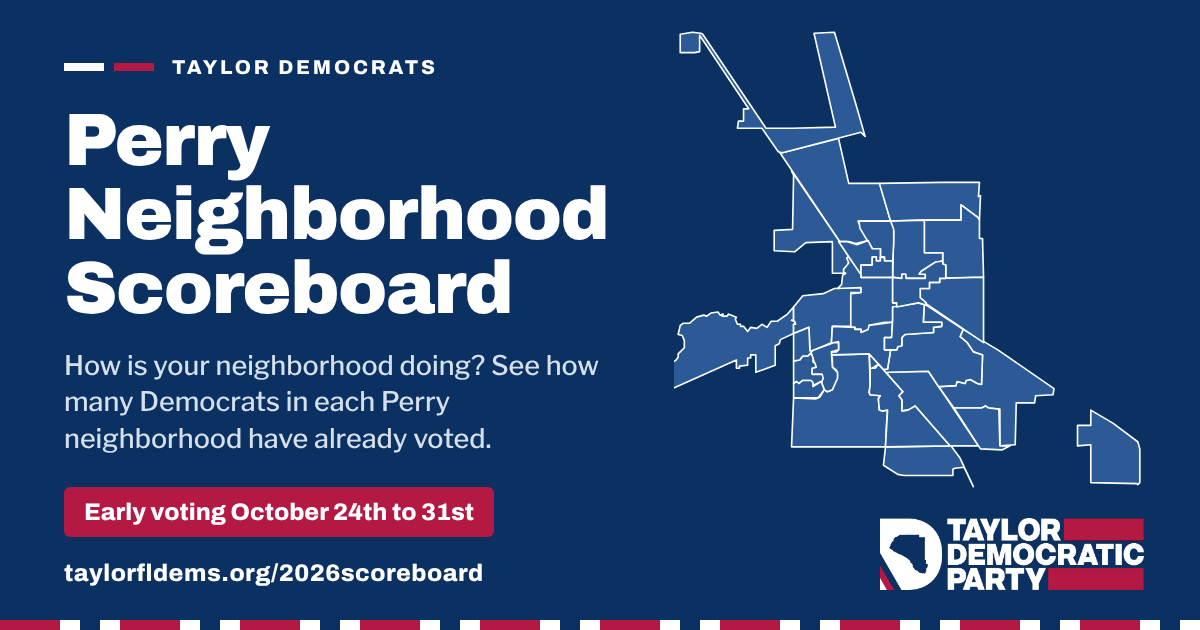
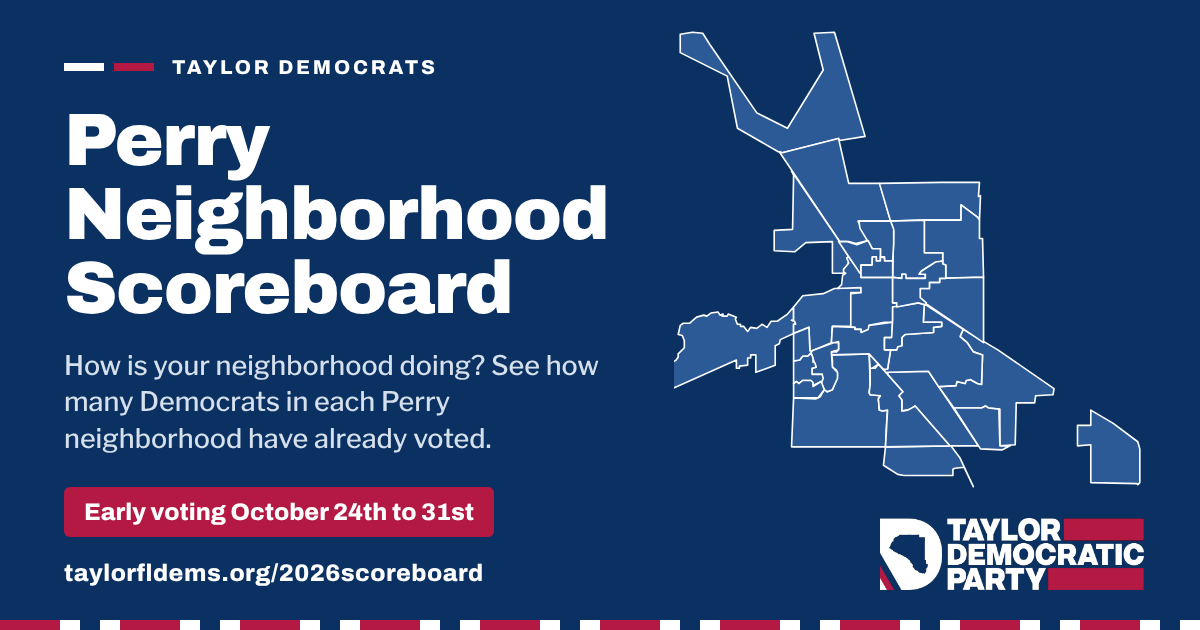
Neighborhood preview: North Perry filled in, new link-preview image
Claude-Session: https://claude.ai/code/session_01R7nS3J4W165aVdm51x17WX

Changed region(s): [[0.555, 0.0603, 0.74, 0.2413]]

diff --git a/neighborhoods/preview/block.html b/neighborhoods/preview/block.html
@@ -64,10 +64,10 @@
           <rect id="tdnb-ground" x="0" y="-100" width="720" height="700" fill="#D9D3C8"></rect>
           <g stroke="#FFFFFF" stroke-width="2" stroke-linejoin="round">
             <path class="area" data-i="0" d="M210 349l0 -13l-5 0l0 3l-3 0l0 7l-8 1l0 2l-3 0l0 -8l-157 70l-12 13l-5 -6l-15 7l-13 2l-1 -3l8 -6l-1 -12l18 -3l2 -3l11 -3l2 -3l-2 -5l2 -5l6 0l4 -5l15 -1l10 -4l3 1l9 -7l25 -2l12 -13l0 -3l7 -3l0 -2l8 -1l5 -3l2 -3l0 -3l6 -6l0 -7l-2 -5l-4 -1l2 -9l3 -2l6 0l7 -6l7 -2l3 1l4 -3l7 -1l2 3l3 -1l-1 2l5 0l1 -2l8 3l-1 2l2 5l3 0l0 2l3 0l4 5l3 -4l6 1l5 -4l5 3l4 -6l6 0l10 -7l6 -7l0 13l-2 0l3 1l1 3l-2 0l0 9l-13 6l-1 4l-4 2l0 19l-19 7l0 -4z" vector-effect="non-scaling-stroke"></path>
+            <path class="area" data-i="13" d="M291 124l-55 14l-4 -1l-40 -23l-10 -51l-46 -23l0 -18l12 -2l10 1l7 11l46 67l30 15l35 -57l-9 -36l20 -1l30 102l-25 4l-1 -2z" vector-effect="non-scaling-stroke"></path>
             <path class="area" data-i="21" d="M285 341l-1 -5l37 -1l1 30l-1 8l1 2l10 1l-2 3l1 11l8 0l-1 14l-1 22l-92 0l2 -48l22 1l4 -2l4 -7l3 2l5 -2l5 -14l-1 -5l-4 -3l0 -7z" vector-effect="non-scaling-stroke"></path>
             <path class="area" data-i="16" d="M308 227l12 -3l-10 -19l32 0l-10 -35l-1 -2l-30 0l-10 -44l-55 14l-3 -1l59 88l9 0l7 2z" vector-effect="non-scaling-stroke"></path>
             <path class="area" data-i="20" d="M350 376l4 -4l-15 -17l0 -2l40 -1l49 73l-27 0l9 12l13 28l-9 -19l-9 1l-2 1l0 6l-48 0l-6 -1l-14 -9l2 -18l63 -1l-34 -39l-4 3l-9 2l0 -11l-3 -4z" vector-effect="non-scaling-stroke"></path>
-            <path class="area" data-i="13" d="M309 94l8 28l-4 -4l-77 20l-4 -1l-16 -23l-24 0l1 -7l5 0l0 -12l5 0l-48 -72l0 16l-5 1l-14 0l0 -18l12 -2l8 1l2 1l62 92l26 0l42 -1l-21 -92l20 -1l22 74z" vector-effect="non-scaling-stroke"></path>
             <path class="area" data-i="9" d="M474 383l9 0l1 -7l17 -1l1 -6l-55 -38l-34 -20l-3 7l7 6l6 9l9 3l-1 29l-4 -1l-7 -4l-4 1l-1 3l-8 -2l-1 4l-17 1l15 21l27 0l4 -2l2 2l12 1l0 36l15 -1l1 -41l9 0z" vector-effect="non-scaling-stroke"></path>
             <path class="area" data-i="18" d="M339 350l3 -19l6 0l1 -3l4 -1l0 -8l3 -3l28 -2l0 -5l8 -1l0 -4l-18 0l1 -18l38 25l-3 7l7 6l6 9l9 3l-1 29l-4 -1l-7 -4l-4 1l-1 3l-8 -2l-1 4l-17 1l-10 -15l-40 1l0 2l-4 -5l4 0z" vector-effect="non-scaling-stroke"></path>
             <path class="area" data-i="10" d="M373 204l38 0l0 -15l16 12l2 3l1 -24l-2 1l1 -14l-37 0l-61 1l11 37l31 -1z" vector-effect="non-scaling-stroke"></path>
@@ -632,7 +632,7 @@ function start(ND) {
     areas.forEach((a) => { const v = ND.areas && ND.areas[a[0]]; a[2] = typeof v === "number" ? v : 0; });
     const TOP = Math.max(40, ...areas.map((a) => a[2]));
   const BOX = [[130,289.0,249.0,427.0],[247.0,334.0,276.0,366.0],[247.0,361.0,277.0,378.0],[344.0,244.0,396.0,289.0],[313.0,240.0,344.0,260.0],[321.0,336.0,400.0,426.0],[284.0,304.0,344.0,350.0],[525.0,390.0,586.0,463.0],[228.0,156.0,301.0,256.0],[389.0,311.0,502.0,425.0],[331.0,167.0,430.0,205.0],[336.0,285.0,392.0,331.0],[245.0,270.0,313.0,333.0],[136.0,20.0,317.0,138.0],[342.0,204.0,393.0,261.0],[375.0,189.0,433.0,261.0],[233.0,124.0,342.0,227.0],[291.0,224.0,332.0,256.0],[335.0,286.0,432.0,367.0],[311.0,205.0,345.0,244.0],[335.0,352.0,428.0,465.0],[245.0,335.0,339.0,426.0],[247.0,309.0,265.0,342.0],[404.0,386.0,459.0,429.0],[371.0,260.0,433.0,324.0],[264.0,324.0,291.0,372.0],[290.0,240.0,348.0,314.0]];
-  const D = ["M210 349l0 -13l-5 0l0 3l-3 0l0 7l-8 1l0 2l-3 0l0 -8l-157 70l-12 13l-5 -6l-15 7l-13 2l-1 -3l8 -6l-1 -12l18 -3l2 -3l11 -3l2 -3l-2 -5l2 -5l6 0l4 -5l15 -1l10 -4l3 1l9 -7l25 -2l12 -13l0 -3l7 -3l0 -2l8 -1l5 -3l2 -3l0 -3l6 -6l0 -7l-2 -5l-4 -1l2 -9l3 -2l6 0l7 -6l7 -2l3 1l4 -3l7 -1l2 3l3 -1l-1 2l5 0l1 -2l8 3l-1 2l2 5l3 0l0 2l3 0l4 5l3 -4l6 1l5 -4l5 3l4 -6l6 0l10 -7l6 -7l0 13l-2 0l3 1l1 3l-2 0l0 9l-13 6l-1 4l-4 2l0 19l-19 7l0 -4z","M266 364l-2 -3l-8 0l-4 3l-2 -2l-3 2l0 -22l6 -1l3 -4l5 0l3 -3l2 5l0 4l2 1l1 4l-4 1l0 6l10 0l1 4l-2 5l0 -2l-8 4l0 -2z","M274 362l3 8l-6 8l-24 0l0 -14l3 -2l2 2l4 -3l8 0l2 2l0 4l8 -5z","M393 247l3 1l0 13l-6 0l0 4l-10 0l0 6l-9 0l0 9l6 5l-1 2l-7 -2l-21 4l0 -4l-4 0l0 -12l0 -13l9 1l0 -4l4 0l0 4l19 0l0 -4l-6 0l2 -3l14 -9l7 -1l0 3z","M313 256l0 -8l11 0l0 -8l4 0l0 4l4 0l0 -4l4 1l0 3l8 0l0 16l-31 0l0 -4z","M334 391l-3 -1l-1 -11l2 -3l-10 -1l-1 -2l1 -8l0 -16l5 0l3 -4l-8 -9l32 36l-4 4l3 4l0 11l6 -1l7 -4l34 39l-63 1l2 -36l-5 1z","M324 349l-2 0l-1 -14l-37 1l0 -3l5 0l2 -2l0 -8l-7 2l1 -17l22 1l0 2l6 0l0 3l7 -3l1 -4l23 -3l-1 15l-7 0l0 12l6 0l-3 19l-4 0l-13 -14l8 9l-6 4z","M525 417l0 -12l13 0l0 -15l22 13l24 18l2 7l0 33l-2 2l-1 -1l-45 -1l0 -37l-13 1l0 -8z","M228 214l18 -1l1 -53l-2 -4l47 69l9 15l-2 1l2 3l-1 5l-4 3l0 4l-11 0l0 -31l-26 1l-11 9l-20 -1l0 -20z","M474 383l9 0l1 -7l17 -1l1 -6l-55 -38l-34 -20l-3 7l7 6l6 9l9 3l-1 29l-4 -1l-7 -4l-4 1l-1 3l-8 -2l-1 4l-17 1l15 21l27 0l4 -2l2 2l12 1l0 36l15 -1l1 -41l9 0z","M373 204l38 0l0 -15l16 12l2 3l1 -24l-2 1l1 -14l-37 0l-61 1l11 37l31 -1z","M356 316l28 -2l0 -5l8 -1l0 -4l-18 0l1 -18l-6 -1l-25 4l0 12l-1 18l-7 0l0 12l12 0l1 -3l4 -1l0 -8l3 -3z","M245 302l2 0l0 -13l9 -11l20 -2l11 -5l26 -1l0 5l-10 0l0 33l-4 0l-14 0l-1 16l-21 9l-1 -24l-15 6l0 -9l2 0l-1 -3l-3 -1z","M309 94l8 28l-4 -4l-77 20l-4 -1l-16 -23l-24 0l1 -7l5 0l0 -12l5 0l-48 -72l0 16l-5 1l-14 0l0 -18l12 -2l8 1l2 1l62 92l26 0l42 -1l-21 -92l20 -1l22 74z","M356 257l1 4l19 0l0 -4l-6 0l2 -3l13 -8l8 -2l0 -8l-18 0l0 -12l0 -20l-33 1l3 10l-1 45l9 1l0 -4l3 0z","M393 245l0 -9l-18 0l0 -32l36 0l0 -2l0 -13l16 12l2 3l0 18l3 0l1 38l-37 1l0 -13l-3 -1l0 -2z","M308 227l12 -3l-10 -19l32 0l-10 -35l-1 -2l-30 0l-10 -44l-55 14l-3 -1l59 88l9 0l7 2z","M324 241l4 -1l0 4l4 0l0 -12l-8 0l-4 -8l-11 4l-10 -3l-8 0l21 31l1 0l0 -8l11 0l0 -7z","M339 350l3 -19l6 0l1 -3l4 -1l0 -8l3 -3l28 -2l0 -5l8 -1l0 -4l-18 0l1 -18l38 25l-3 7l7 6l6 9l9 3l-1 29l-4 -1l-7 -4l-4 1l-1 3l-8 -2l-1 4l-17 1l-10 -15l-40 1l0 2l-4 -5l4 0z","M311 205l31 0l3 8l0 14l-1 17l-8 0l0 -4l-4 0l0 -8l-8 0l-12 -20l-1 -7z","M350 376l4 -4l-15 -17l0 -2l40 -1l49 73l-27 0l9 12l13 28l-9 -19l-9 1l-2 1l0 6l-48 0l-6 -1l-14 -9l2 -18l63 -1l-34 -39l-4 3l-9 2l0 -11l-3 -4z","M285 341l-1 -5l37 -1l1 30l-1 8l1 2l10 1l-2 3l1 11l8 0l-1 14l-1 22l-92 0l2 -48l22 1l4 -2l4 -7l3 2l5 -2l5 -14l-1 -5l-4 -3l0 -7z","M264 334l-3 3l-5 0l-3 4l-6 1l0 -27l10 -4l5 -2l1 23l2 0l-1 2z","M404 388l27 0l4 -2l3 2l10 1l1 36l10 0l-8 4l-21 -1l-26 -40z","M423 260l10 0l0 64l-56 -38l-6 -6l0 -9l9 0l0 -6l10 0l0 -4l33 -1z","M275 359l0 -4l-10 0l0 -6l4 -1l-5 -14l1 -2l21 -8l5 0l0 7l-7 2l1 15l5 5l0 6l-5 11l-5 2l-3 -2l-3 -7l1 -4z","M296 255l0 -3l5 -6l-2 -5l2 -1l12 16l0 4l31 0l0 25l4 0l0 4l-4 0l0 15l-8 0l-15 3l0 4l-8 3l0 -3l-6 0l0 -2l-4 0l0 -33l10 -1l0 -5l-23 1l4 -4l1 -9l3 -2l-2 -1z"];
+  const D = ["M210 349l0 -13l-5 0l0 3l-3 0l0 7l-8 1l0 2l-3 0l0 -8l-157 70l-12 13l-5 -6l-15 7l-13 2l-1 -3l8 -6l-1 -12l18 -3l2 -3l11 -3l2 -3l-2 -5l2 -5l6 0l4 -5l15 -1l10 -4l3 1l9 -7l25 -2l12 -13l0 -3l7 -3l0 -2l8 -1l5 -3l2 -3l0 -3l6 -6l0 -7l-2 -5l-4 -1l2 -9l3 -2l6 0l7 -6l7 -2l3 1l4 -3l7 -1l2 3l3 -1l-1 2l5 0l1 -2l8 3l-1 2l2 5l3 0l0 2l3 0l4 5l3 -4l6 1l5 -4l5 3l4 -6l6 0l10 -7l6 -7l0 13l-2 0l3 1l1 3l-2 0l0 9l-13 6l-1 4l-4 2l0 19l-19 7l0 -4z","M266 364l-2 -3l-8 0l-4 3l-2 -2l-3 2l0 -22l6 -1l3 -4l5 0l3 -3l2 5l0 4l2 1l1 4l-4 1l0 6l10 0l1 4l-2 5l0 -2l-8 4l0 -2z","M274 362l3 8l-6 8l-24 0l0 -14l3 -2l2 2l4 -3l8 0l2 2l0 4l8 -5z","M393 247l3 1l0 13l-6 0l0 4l-10 0l0 6l-9 0l0 9l6 5l-1 2l-7 -2l-21 4l0 -4l-4 0l0 -12l0 -13l9 1l0 -4l4 0l0 4l19 0l0 -4l-6 0l2 -3l14 -9l7 -1l0 3z","M313 256l0 -8l11 0l0 -8l4 0l0 4l4 0l0 -4l4 1l0 3l8 0l0 16l-31 0l0 -4z","M334 391l-3 -1l-1 -11l2 -3l-10 -1l-1 -2l1 -8l0 -16l5 0l3 -4l-8 -9l32 36l-4 4l3 4l0 11l6 -1l7 -4l34 39l-63 1l2 -36l-5 1z","M324 349l-2 0l-1 -14l-37 1l0 -3l5 0l2 -2l0 -8l-7 2l1 -17l22 1l0 2l6 0l0 3l7 -3l1 -4l23 -3l-1 15l-7 0l0 12l6 0l-3 19l-4 0l-13 -14l8 9l-6 4z","M525 417l0 -12l13 0l0 -15l22 13l24 18l2 7l0 33l-2 2l-1 -1l-45 -1l0 -37l-13 1l0 -8z","M228 214l18 -1l1 -53l-2 -4l47 69l9 15l-2 1l2 3l-1 5l-4 3l0 4l-11 0l0 -31l-26 1l-11 9l-20 -1l0 -20z","M474 383l9 0l1 -7l17 -1l1 -6l-55 -38l-34 -20l-3 7l7 6l6 9l9 3l-1 29l-4 -1l-7 -4l-4 1l-1 3l-8 -2l-1 4l-17 1l15 21l27 0l4 -2l2 2l12 1l0 36l15 -1l1 -41l9 0z","M373 204l38 0l0 -15l16 12l2 3l1 -24l-2 1l1 -14l-37 0l-61 1l11 37l31 -1z","M356 316l28 -2l0 -5l8 -1l0 -4l-18 0l1 -18l-6 -1l-25 4l0 12l-1 18l-7 0l0 12l12 0l1 -3l4 -1l0 -8l3 -3z","M245 302l2 0l0 -13l9 -11l20 -2l11 -5l26 -1l0 5l-10 0l0 33l-4 0l-14 0l-1 16l-21 9l-1 -24l-15 6l0 -9l2 0l-1 -3l-3 -1z","M291 124l-55 14l-4 -1l-40 -23l-10 -51l-46 -23l0 -18l12 -2l10 1l7 11l46 67l30 15l35 -57l-9 -36l20 -1l30 102l-25 4l-1 -2z","M356 257l1 4l19 0l0 -4l-6 0l2 -3l13 -8l8 -2l0 -8l-18 0l0 -12l0 -20l-33 1l3 10l-1 45l9 1l0 -4l3 0z","M393 245l0 -9l-18 0l0 -32l36 0l0 -2l0 -13l16 12l2 3l0 18l3 0l1 38l-37 1l0 -13l-3 -1l0 -2z","M308 227l12 -3l-10 -19l32 0l-10 -35l-1 -2l-30 0l-10 -44l-55 14l-3 -1l59 88l9 0l7 2z","M324 241l4 -1l0 4l4 0l0 -12l-8 0l-4 -8l-11 4l-10 -3l-8 0l21 31l1 0l0 -8l11 0l0 -7z","M339 350l3 -19l6 0l1 -3l4 -1l0 -8l3 -3l28 -2l0 -5l8 -1l0 -4l-18 0l1 -18l38 25l-3 7l7 6l6 9l9 3l-1 29l-4 -1l-7 -4l-4 1l-1 3l-8 -2l-1 4l-17 1l-10 -15l-40 1l0 2l-4 -5l4 0z","M311 205l31 0l3 8l0 14l-1 17l-8 0l0 -4l-4 0l0 -8l-8 0l-12 -20l-1 -7z","M350 376l4 -4l-15 -17l0 -2l40 -1l49 73l-27 0l9 12l13 28l-9 -19l-9 1l-2 1l0 6l-48 0l-6 -1l-14 -9l2 -18l63 -1l-34 -39l-4 3l-9 2l0 -11l-3 -4z","M285 341l-1 -5l37 -1l1 30l-1 8l1 2l10 1l-2 3l1 11l8 0l-1 14l-1 22l-92 0l2 -48l22 1l4 -2l4 -7l3 2l5 -2l5 -14l-1 -5l-4 -3l0 -7z","M264 334l-3 3l-5 0l-3 4l-6 1l0 -27l10 -4l5 -2l1 23l2 0l-1 2z","M404 388l27 0l4 -2l3 2l10 1l1 36l10 0l-8 4l-21 -1l-26 -40z","M423 260l10 0l0 64l-56 -38l-6 -6l0 -9l9 0l0 -6l10 0l0 -4l33 -1z","M275 359l0 -4l-10 0l0 -6l4 -1l-5 -14l1 -2l21 -8l5 0l0 7l-7 2l1 15l5 5l0 6l-5 11l-5 2l-3 -2l-3 -7l1 -4z","M296 255l0 -3l5 -6l-2 -5l2 -1l12 16l0 4l31 0l0 25l4 0l0 4l-4 0l0 15l-8 0l-15 3l0 4l-8 3l0 -3l-6 0l0 -2l-4 0l0 -33l10 -1l0 -5l-23 1l4 -4l1 -9l3 -2l-2 -1z"];
   const B = { x: 130, y: 10, w: 460, h: 470 };
   const pcts = (ps) => ps.length === 1 ? "Precinct " + ps[0] : "Precincts " + ps.slice(0, -1).join(", ") + " and " + ps[ps.length - 1];
   const ord = (n) => n + ((n % 100 >= 11 && n % 100 <= 13) ? "th" : ({ 1: "st", 2: "nd", 3: "rd" }[n % 10] || "th"));

diff --git a/neighborhoods/preview/live.html b/neighborhoods/preview/live.html
@@ -69,10 +69,10 @@
           <rect id="tdnb-ground" x="0" y="-100" width="720" height="700" fill="#D9D3C8"></rect>
           <g stroke="#FFFFFF" stroke-width="2" stroke-linejoin="round">
             <path class="area" data-i="0" d="M210 349l0 -13l-5 0l0 3l-3 0l0 7l-8 1l0 2l-3 0l0 -8l-157 70l-12 13l-5 -6l-15 7l-13 2l-1 -3l8 -6l-1 -12l18 -3l2 -3l11 -3l2 -3l-2 -5l2 -5l6 0l4 -5l15 -1l10 -4l3 1l9 -7l25 -2l12 -13l0 -3l7 -3l0 -2l8 -1l5 -3l2 -3l0 -3l6 -6l0 -7l-2 -5l-4 -1l2 -9l3 -2l6 0l7 -6l7 -2l3 1l4 -3l7 -1l2 3l3 -1l-1 2l5 0l1 -2l8 3l-1 2l2 5l3 0l0 2l3 0l4 5l3 -4l6 1l5 -4l5 3l4 -6l6 0l10 -7l6 -7l0 13l-2 0l3 1l1 3l-2 0l0 9l-13 6l-1 4l-4 2l0 19l-19 7l0 -4z" vector-effect="non-scaling-stroke"></path>
+            <path class="area" data-i="13" d="M291 124l-55 14l-4 -1l-40 -23l-10 -51l-46 -23l0 -18l12 -2l10 1l7 11l46 67l30 15l35 -57l-9 -36l20 -1l30 102l-25 4l-1 -2z" vector-effect="non-scaling-stroke"></path>
             <path class="area" data-i="21" d="M285 341l-1 -5l37 -1l1 30l-1 8l1 2l10 1l-2 3l1 11l8 0l-1 14l-1 22l-92 0l2 -48l22 1l4 -2l4 -7l3 2l5 -2l5 -14l-1 -5l-4 -3l0 -7z" vector-effect="non-scaling-stroke"></path>
             <path class="area" data-i="16" d="M308 227l12 -3l-10 -19l32 0l-10 -35l-1 -2l-30 0l-10 -44l-55 14l-3 -1l59 88l9 0l7 2z" vector-effect="non-scaling-stroke"></path>
             <path class="area" data-i="20" d="M350 376l4 -4l-15 -17l0 -2l40 -1l49 73l-27 0l9 12l13 28l-9 -19l-9 1l-2 1l0 6l-48 0l-6 -1l-14 -9l2 -18l63 -1l-34 -39l-4 3l-9 2l0 -11l-3 -4z" vector-effect="non-scaling-stroke"></path>
-            <path class="area" data-i="13" d="M309 94l8 28l-4 -4l-77 20l-4 -1l-16 -23l-24 0l1 -7l5 0l0 -12l5 0l-48 -72l0 16l-5 1l-14 0l0 -18l12 -2l8 1l2 1l62 92l26 0l42 -1l-21 -92l20 -1l22 74z" vector-effect="non-scaling-stroke"></path>
             <path class="area" data-i="9" d="M474 383l9 0l1 -7l17 -1l1 -6l-55 -38l-34 -20l-3 7l7 6l6 9l9 3l-1 29l-4 -1l-7 -4l-4 1l-1 3l-8 -2l-1 4l-17 1l15 21l27 0l4 -2l2 2l12 1l0 36l15 -1l1 -41l9 0z" vector-effect="non-scaling-stroke"></path>
             <path class="area" data-i="18" d="M339 350l3 -19l6 0l1 -3l4 -1l0 -8l3 -3l28 -2l0 -5l8 -1l0 -4l-18 0l1 -18l38 25l-3 7l7 6l6 9l9 3l-1 29l-4 -1l-7 -4l-4 1l-1 3l-8 -2l-1 4l-17 1l-10 -15l-40 1l0 2l-4 -5l4 0z" vector-effect="non-scaling-stroke"></path>
             <path class="area" data-i="10" d="M373 204l38 0l0 -15l16 12l2 3l1 -24l-2 1l1 -14l-37 0l-61 1l11 37l31 -1z" vector-effect="non-scaling-stroke"></path>
@@ -637,7 +637,7 @@ function start(ND) {
     areas.forEach((a) => { const v = ND.areas && ND.areas[a[0]]; a[2] = typeof v === "number" ? v : 0; });
     const TOP = Math.max(40, ...areas.map((a) => a[2]));
   const BOX = [[130,289.0,249.0,427.0],[247.0,334.0,276.0,366.0],[247.0,361.0,277.0,378.0],[344.0,244.0,396.0,289.0],[313.0,240.0,344.0,260.0],[321.0,336.0,400.0,426.0],[284.0,304.0,344.0,350.0],[525.0,390.0,586.0,463.0],[228.0,156.0,301.0,256.0],[389.0,311.0,502.0,425.0],[331.0,167.0,430.0,205.0],[336.0,285.0,392.0,331.0],[245.0,270.0,313.0,333.0],[136.0,20.0,317.0,138.0],[342.0,204.0,393.0,261.0],[375.0,189.0,433.0,261.0],[233.0,124.0,342.0,227.0],[291.0,224.0,332.0,256.0],[335.0,286.0,432.0,367.0],[311.0,205.0,345.0,244.0],[335.0,352.0,428.0,465.0],[245.0,335.0,339.0,426.0],[247.0,309.0,265.0,342.0],[404.0,386.0,459.0,429.0],[371.0,260.0,433.0,324.0],[264.0,324.0,291.0,372.0],[290.0,240.0,348.0,314.0]];
-  const D = ["M210 349l0 -13l-5 0l0 3l-3 0l0 7l-8 1l0 2l-3 0l0 -8l-157 70l-12 13l-5 -6l-15 7l-13 2l-1 -3l8 -6l-1 -12l18 -3l2 -3l11 -3l2 -3l-2 -5l2 -5l6 0l4 -5l15 -1l10 -4l3 1l9 -7l25 -2l12 -13l0 -3l7 -3l0 -2l8 -1l5 -3l2 -3l0 -3l6 -6l0 -7l-2 -5l-4 -1l2 -9l3 -2l6 0l7 -6l7 -2l3 1l4 -3l7 -1l2 3l3 -1l-1 2l5 0l1 -2l8 3l-1 2l2 5l3 0l0 2l3 0l4 5l3 -4l6 1l5 -4l5 3l4 -6l6 0l10 -7l6 -7l0 13l-2 0l3 1l1 3l-2 0l0 9l-13 6l-1 4l-4 2l0 19l-19 7l0 -4z","M266 364l-2 -3l-8 0l-4 3l-2 -2l-3 2l0 -22l6 -1l3 -4l5 0l3 -3l2 5l0 4l2 1l1 4l-4 1l0 6l10 0l1 4l-2 5l0 -2l-8 4l0 -2z","M274 362l3 8l-6 8l-24 0l0 -14l3 -2l2 2l4 -3l8 0l2 2l0 4l8 -5z","M393 247l3 1l0 13l-6 0l0 4l-10 0l0 6l-9 0l0 9l6 5l-1 2l-7 -2l-21 4l0 -4l-4 0l0 -12l0 -13l9 1l0 -4l4 0l0 4l19 0l0 -4l-6 0l2 -3l14 -9l7 -1l0 3z","M313 256l0 -8l11 0l0 -8l4 0l0 4l4 0l0 -4l4 1l0 3l8 0l0 16l-31 0l0 -4z","M334 391l-3 -1l-1 -11l2 -3l-10 -1l-1 -2l1 -8l0 -16l5 0l3 -4l-8 -9l32 36l-4 4l3 4l0 11l6 -1l7 -4l34 39l-63 1l2 -36l-5 1z","M324 349l-2 0l-1 -14l-37 1l0 -3l5 0l2 -2l0 -8l-7 2l1 -17l22 1l0 2l6 0l0 3l7 -3l1 -4l23 -3l-1 15l-7 0l0 12l6 0l-3 19l-4 0l-13 -14l8 9l-6 4z","M525 417l0 -12l13 0l0 -15l22 13l24 18l2 7l0 33l-2 2l-1 -1l-45 -1l0 -37l-13 1l0 -8z","M228 214l18 -1l1 -53l-2 -4l47 69l9 15l-2 1l2 3l-1 5l-4 3l0 4l-11 0l0 -31l-26 1l-11 9l-20 -1l0 -20z","M474 383l9 0l1 -7l17 -1l1 -6l-55 -38l-34 -20l-3 7l7 6l6 9l9 3l-1 29l-4 -1l-7 -4l-4 1l-1 3l-8 -2l-1 4l-17 1l15 21l27 0l4 -2l2 2l12 1l0 36l15 -1l1 -41l9 0z","M373 204l38 0l0 -15l16 12l2 3l1 -24l-2 1l1 -14l-37 0l-61 1l11 37l31 -1z","M356 316l28 -2l0 -5l8 -1l0 -4l-18 0l1 -18l-6 -1l-25 4l0 12l-1 18l-7 0l0 12l12 0l1 -3l4 -1l0 -8l3 -3z","M245 302l2 0l0 -13l9 -11l20 -2l11 -5l26 -1l0 5l-10 0l0 33l-4 0l-14 0l-1 16l-21 9l-1 -24l-15 6l0 -9l2 0l-1 -3l-3 -1z","M309 94l8 28l-4 -4l-77 20l-4 -1l-16 -23l-24 0l1 -7l5 0l0 -12l5 0l-48 -72l0 16l-5 1l-14 0l0 -18l12 -2l8 1l2 1l62 92l26 0l42 -1l-21 -92l20 -1l22 74z","M356 257l1 4l19 0l0 -4l-6 0l2 -3l13 -8l8 -2l0 -8l-18 0l0 -12l0 -20l-33 1l3 10l-1 45l9 1l0 -4l3 0z","M393 245l0 -9l-18 0l0 -32l36 0l0 -2l0 -13l16 12l2 3l0 18l3 0l1 38l-37 1l0 -13l-3 -1l0 -2z","M308 227l12 -3l-10 -19l32 0l-10 -35l-1 -2l-30 0l-10 -44l-55 14l-3 -1l59 88l9 0l7 2z","M324 241l4 -1l0 4l4 0l0 -12l-8 0l-4 -8l-11 4l-10 -3l-8 0l21 31l1 0l0 -8l11 0l0 -7z","M339 350l3 -19l6 0l1 -3l4 -1l0 -8l3 -3l28 -2l0 -5l8 -1l0 -4l-18 0l1 -18l38 25l-3 7l7 6l6 9l9 3l-1 29l-4 -1l-7 -4l-4 1l-1 3l-8 -2l-1 4l-17 1l-10 -15l-40 1l0 2l-4 -5l4 0z","M311 205l31 0l3 8l0 14l-1 17l-8 0l0 -4l-4 0l0 -8l-8 0l-12 -20l-1 -7z","M350 376l4 -4l-15 -17l0 -2l40 -1l49 73l-27 0l9 12l13 28l-9 -19l-9 1l-2 1l0 6l-48 0l-6 -1l-14 -9l2 -18l63 -1l-34 -39l-4 3l-9 2l0 -11l-3 -4z","M285 341l-1 -5l37 -1l1 30l-1 8l1 2l10 1l-2 3l1 11l8 0l-1 14l-1 22l-92 0l2 -48l22 1l4 -2l4 -7l3 2l5 -2l5 -14l-1 -5l-4 -3l0 -7z","M264 334l-3 3l-5 0l-3 4l-6 1l0 -27l10 -4l5 -2l1 23l2 0l-1 2z","M404 388l27 0l4 -2l3 2l10 1l1 36l10 0l-8 4l-21 -1l-26 -40z","M423 260l10 0l0 64l-56 -38l-6 -6l0 -9l9 0l0 -6l10 0l0 -4l33 -1z","M275 359l0 -4l-10 0l0 -6l4 -1l-5 -14l1 -2l21 -8l5 0l0 7l-7 2l1 15l5 5l0 6l-5 11l-5 2l-3 -2l-3 -7l1 -4z","M296 255l0 -3l5 -6l-2 -5l2 -1l12 16l0 4l31 0l0 25l4 0l0 4l-4 0l0 15l-8 0l-15 3l0 4l-8 3l0 -3l-6 0l0 -2l-4 0l0 -33l10 -1l0 -5l-23 1l4 -4l1 -9l3 -2l-2 -1z"];
+  const D = ["M210 349l0 -13l-5 0l0 3l-3 0l0 7l-8 1l0 2l-3 0l0 -8l-157 70l-12 13l-5 -6l-15 7l-13 2l-1 -3l8 -6l-1 -12l18 -3l2 -3l11 -3l2 -3l-2 -5l2 -5l6 0l4 -5l15 -1l10 -4l3 1l9 -7l25 -2l12 -13l0 -3l7 -3l0 -2l8 -1l5 -3l2 -3l0 -3l6 -6l0 -7l-2 -5l-4 -1l2 -9l3 -2l6 0l7 -6l7 -2l3 1l4 -3l7 -1l2 3l3 -1l-1 2l5 0l1 -2l8 3l-1 2l2 5l3 0l0 2l3 0l4 5l3 -4l6 1l5 -4l5 3l4 -6l6 0l10 -7l6 -7l0 13l-2 0l3 1l1 3l-2 0l0 9l-13 6l-1 4l-4 2l0 19l-19 7l0 -4z","M266 364l-2 -3l-8 0l-4 3l-2 -2l-3 2l0 -22l6 -1l3 -4l5 0l3 -3l2 5l0 4l2 1l1 4l-4 1l0 6l10 0l1 4l-2 5l0 -2l-8 4l0 -2z","M274 362l3 8l-6 8l-24 0l0 -14l3 -2l2 2l4 -3l8 0l2 2l0 4l8 -5z","M393 247l3 1l0 13l-6 0l0 4l-10 0l0 6l-9 0l0 9l6 5l-1 2l-7 -2l-21 4l0 -4l-4 0l0 -12l0 -13l9 1l0 -4l4 0l0 4l19 0l0 -4l-6 0l2 -3l14 -9l7 -1l0 3z","M313 256l0 -8l11 0l0 -8l4 0l0 4l4 0l0 -4l4 1l0 3l8 0l0 16l-31 0l0 -4z","M334 391l-3 -1l-1 -11l2 -3l-10 -1l-1 -2l1 -8l0 -16l5 0l3 -4l-8 -9l32 36l-4 4l3 4l0 11l6 -1l7 -4l34 39l-63 1l2 -36l-5 1z","M324 349l-2 0l-1 -14l-37 1l0 -3l5 0l2 -2l0 -8l-7 2l1 -17l22 1l0 2l6 0l0 3l7 -3l1 -4l23 -3l-1 15l-7 0l0 12l6 0l-3 19l-4 0l-13 -14l8 9l-6 4z","M525 417l0 -12l13 0l0 -15l22 13l24 18l2 7l0 33l-2 2l-1 -1l-45 -1l0 -37l-13 1l0 -8z","M228 214l18 -1l1 -53l-2 -4l47 69l9 15l-2 1l2 3l-1 5l-4 3l0 4l-11 0l0 -31l-26 1l-11 9l-20 -1l0 -20z","M474 383l9 0l1 -7l17 -1l1 -6l-55 -38l-34 -20l-3 7l7 6l6 9l9 3l-1 29l-4 -1l-7 -4l-4 1l-1 3l-8 -2l-1 4l-17 1l15 21l27 0l4 -2l2 2l12 1l0 36l15 -1l1 -41l9 0z","M373 204l38 0l0 -15l16 12l2 3l1 -24l-2 1l1 -14l-37 0l-61 1l11 37l31 -1z","M356 316l28 -2l0 -5l8 -1l0 -4l-18 0l1 -18l-6 -1l-25 4l0 12l-1 18l-7 0l0 12l12 0l1 -3l4 -1l0 -8l3 -3z","M245 302l2 0l0 -13l9 -11l20 -2l11 -5l26 -1l0 5l-10 0l0 33l-4 0l-14 0l-1 16l-21 9l-1 -24l-15 6l0 -9l2 0l-1 -3l-3 -1z","M291 124l-55 14l-4 -1l-40 -23l-10 -51l-46 -23l0 -18l12 -2l10 1l7 11l46 67l30 15l35 -57l-9 -36l20 -1l30 102l-25 4l-1 -2z","M356 257l1 4l19 0l0 -4l-6 0l2 -3l13 -8l8 -2l0 -8l-18 0l0 -12l0 -20l-33 1l3 10l-1 45l9 1l0 -4l3 0z","M393 245l0 -9l-18 0l0 -32l36 0l0 -2l0 -13l16 12l2 3l0 18l3 0l1 38l-37 1l0 -13l-3 -1l0 -2z","M308 227l12 -3l-10 -19l32 0l-10 -35l-1 -2l-30 0l-10 -44l-55 14l-3 -1l59 88l9 0l7 2z","M324 241l4 -1l0 4l4 0l0 -12l-8 0l-4 -8l-11 4l-10 -3l-8 0l21 31l1 0l0 -8l11 0l0 -7z","M339 350l3 -19l6 0l1 -3l4 -1l0 -8l3 -3l28 -2l0 -5l8 -1l0 -4l-18 0l1 -18l38 25l-3 7l7 6l6 9l9 3l-1 29l-4 -1l-7 -4l-4 1l-1 3l-8 -2l-1 4l-17 1l-10 -15l-40 1l0 2l-4 -5l4 0z","M311 205l31 0l3 8l0 14l-1 17l-8 0l0 -4l-4 0l0 -8l-8 0l-12 -20l-1 -7z","M350 376l4 -4l-15 -17l0 -2l40 -1l49 73l-27 0l9 12l13 28l-9 -19l-9 1l-2 1l0 6l-48 0l-6 -1l-14 -9l2 -18l63 -1l-34 -39l-4 3l-9 2l0 -11l-3 -4z","M285 341l-1 -5l37 -1l1 30l-1 8l1 2l10 1l-2 3l1 11l8 0l-1 14l-1 22l-92 0l2 -48l22 1l4 -2l4 -7l3 2l5 -2l5 -14l-1 -5l-4 -3l0 -7z","M264 334l-3 3l-5 0l-3 4l-6 1l0 -27l10 -4l5 -2l1 23l2 0l-1 2z","M404 388l27 0l4 -2l3 2l10 1l1 36l10 0l-8 4l-21 -1l-26 -40z","M423 260l10 0l0 64l-56 -38l-6 -6l0 -9l9 0l0 -6l10 0l0 -4l33 -1z","M275 359l0 -4l-10 0l0 -6l4 -1l-5 -14l1 -2l21 -8l5 0l0 7l-7 2l1 15l5 5l0 6l-5 11l-5 2l-3 -2l-3 -7l1 -4z","M296 255l0 -3l5 -6l-2 -5l2 -1l12 16l0 4l31 0l0 25l4 0l0 4l-4 0l0 15l-8 0l-15 3l0 4l-8 3l0 -3l-6 0l0 -2l-4 0l0 -33l10 -1l0 -5l-23 1l4 -4l1 -9l3 -2l-2 -1z"];
   const B = { x: 130, y: 10, w: 460, h: 470 };
   const pcts = (ps) => ps.length === 1 ? "Precinct " + ps[0] : "Precincts " + ps.slice(0, -1).join(", ") + " and " + ps[ps.length - 1];
   const ord = (n) => n + ((n % 100 >= 11 && n % 100 <= 13) ? "th" : ({ 1: "st", 2: "nd", 3: "rd" }[n % 10] || "th"));

diff --git a/neighborhoods/preview/index.html b/neighborhoods/preview/index.html
@@ -66,10 +66,10 @@ button:focus-visible{outline:3px solid #B31942;outline-offset:2px}
           <rect id="ground" x="0" y="-100" width="720" height="700" fill="#D9D3C8"></rect>
           <g stroke="#FFFFFF" stroke-width="2" stroke-linejoin="round">
             <path class="area" data-i="0" d="M210 349l0 -13l-5 0l0 3l-3 0l0 7l-8 1l0 2l-3 0l0 -8l-157 70l-12 13l-5 -6l-15 7l-13 2l-1 -3l8 -6l-1 -12l18 -3l2 -3l11 -3l2 -3l-2 -5l2 -5l6 0l4 -5l15 -1l10 -4l3 1l9 -7l25 -2l12 -13l0 -3l7 -3l0 -2l8 -1l5 -3l2 -3l0 -3l6 -6l0 -7l-2 -5l-4 -1l2 -9l3 -2l6 0l7 -6l7 -2l3 1l4 -3l7 -1l2 3l3 -1l-1 2l5 0l1 -2l8 3l-1 2l2 5l3 0l0 2l3 0l4 5l3 -4l6 1l5 -4l5 3l4 -6l6 0l10 -7l6 -7l0 13l-2 0l3 1l1 3l-2 0l0 9l-13 6l-1 4l-4 2l0 19l-19 7l0 -4z" vector-effect="non-scaling-stroke"></path>
+            <path class="area" data-i="13" d="M291 124l-55 14l-4 -1l-40 -23l-10 -51l-46 -23l0 -18l12 -2l10 1l7 11l46 67l30 15l35 -57l-9 -36l20 -1l30 102l-25 4l-1 -2z" vector-effect="non-scaling-stroke"></path>
             <path class="area" data-i="21" d="M285 341l-1 -5l37 -1l1 30l-1 8l1 2l10 1l-2 3l1 11l8 0l-1 14l-1 22l-92 0l2 -48l22 1l4 -2l4 -7l3 2l5 -2l5 -14l-1 -5l-4 -3l0 -7z" vector-effect="non-scaling-stroke"></path>
             <path class="area" data-i="16" d="M308 227l12 -3l-10 -19l32 0l-10 -35l-1 -2l-30 0l-10 -44l-55 14l-3 -1l59 88l9 0l7 2z" vector-effect="non-scaling-stroke"></path>
             <path class="area" data-i="20" d="M350 376l4 -4l-15 -17l0 -2l40 -1l49 73l-27 0l9 12l13 28l-9 -19l-9 1l-2 1l0 6l-48 0l-6 -1l-14 -9l2 -18l63 -1l-34 -39l-4 3l-9 2l0 -11l-3 -4z" vector-effect="non-scaling-stroke"></path>
-            <path class="area" data-i="13" d="M309 94l8 28l-4 -4l-77 20l-4 -1l-16 -23l-24 0l1 -7l5 0l0 -12l5 0l-48 -72l0 16l-5 1l-14 0l0 -18l12 -2l8 1l2 1l62 92l26 0l42 -1l-21 -92l20 -1l22 74z" vector-effect="non-scaling-stroke"></path>
             <path class="area" data-i="9" d="M474 383l9 0l1 -7l17 -1l1 -6l-55 -38l-34 -20l-3 7l7 6l6 9l9 3l-1 29l-4 -1l-7 -4l-4 1l-1 3l-8 -2l-1 4l-17 1l15 21l27 0l4 -2l2 2l12 1l0 36l15 -1l1 -41l9 0z" vector-effect="non-scaling-stroke"></path>
             <path class="area" data-i="18" d="M339 350l3 -19l6 0l1 -3l4 -1l0 -8l3 -3l28 -2l0 -5l8 -1l0 -4l-18 0l1 -18l38 25l-3 7l7 6l6 9l9 3l-1 29l-4 -1l-7 -4l-4 1l-1 3l-8 -2l-1 4l-17 1l-10 -15l-40 1l0 2l-4 -5l4 0z" vector-effect="non-scaling-stroke"></path>
             <path class="area" data-i="10" d="M373 204l38 0l0 -15l16 12l2 3l1 -24l-2 1l1 -14l-37 0l-61 1l11 37l31 -1z" vector-effect="non-scaling-stroke"></path>
@@ -629,7 +629,7 @@ button:focus-visible{outline:3px solid #B31942;outline-offset:2px}
       ["West Brook & Curls", [13], 33]
     ];
   const BOX = [[130,289.0,249.0,427.0],[247.0,334.0,276.0,366.0],[247.0,361.0,277.0,378.0],[344.0,244.0,396.0,289.0],[313.0,240.0,344.0,260.0],[321.0,336.0,400.0,426.0],[284.0,304.0,344.0,350.0],[525.0,390.0,586.0,463.0],[228.0,156.0,301.0,256.0],[389.0,311.0,502.0,425.0],[331.0,167.0,430.0,205.0],[336.0,285.0,392.0,331.0],[245.0,270.0,313.0,333.0],[136.0,20.0,317.0,138.0],[342.0,204.0,393.0,261.0],[375.0,189.0,433.0,261.0],[233.0,124.0,342.0,227.0],[291.0,224.0,332.0,256.0],[335.0,286.0,432.0,367.0],[311.0,205.0,345.0,244.0],[335.0,352.0,428.0,465.0],[245.0,335.0,339.0,426.0],[247.0,309.0,265.0,342.0],[404.0,386.0,459.0,429.0],[371.0,260.0,433.0,324.0],[264.0,324.0,291.0,372.0],[290.0,240.0,348.0,314.0]];
-  const D = ["M210 349l0 -13l-5 0l0 3l-3 0l0 7l-8 1l0 2l-3 0l0 -8l-157 70l-12 13l-5 -6l-15 7l-13 2l-1 -3l8 -6l-1 -12l18 -3l2 -3l11 -3l2 -3l-2 -5l2 -5l6 0l4 -5l15 -1l10 -4l3 1l9 -7l25 -2l12 -13l0 -3l7 -3l0 -2l8 -1l5 -3l2 -3l0 -3l6 -6l0 -7l-2 -5l-4 -1l2 -9l3 -2l6 0l7 -6l7 -2l3 1l4 -3l7 -1l2 3l3 -1l-1 2l5 0l1 -2l8 3l-1 2l2 5l3 0l0 2l3 0l4 5l3 -4l6 1l5 -4l5 3l4 -6l6 0l10 -7l6 -7l0 13l-2 0l3 1l1 3l-2 0l0 9l-13 6l-1 4l-4 2l0 19l-19 7l0 -4z","M266 364l-2 -3l-8 0l-4 3l-2 -2l-3 2l0 -22l6 -1l3 -4l5 0l3 -3l2 5l0 4l2 1l1 4l-4 1l0 6l10 0l1 4l-2 5l0 -2l-8 4l0 -2z","M274 362l3 8l-6 8l-24 0l0 -14l3 -2l2 2l4 -3l8 0l2 2l0 4l8 -5z","M393 247l3 1l0 13l-6 0l0 4l-10 0l0 6l-9 0l0 9l6 5l-1 2l-7 -2l-21 4l0 -4l-4 0l0 -12l0 -13l9 1l0 -4l4 0l0 4l19 0l0 -4l-6 0l2 -3l14 -9l7 -1l0 3z","M313 256l0 -8l11 0l0 -8l4 0l0 4l4 0l0 -4l4 1l0 3l8 0l0 16l-31 0l0 -4z","M334 391l-3 -1l-1 -11l2 -3l-10 -1l-1 -2l1 -8l0 -16l5 0l3 -4l-8 -9l32 36l-4 4l3 4l0 11l6 -1l7 -4l34 39l-63 1l2 -36l-5 1z","M324 349l-2 0l-1 -14l-37 1l0 -3l5 0l2 -2l0 -8l-7 2l1 -17l22 1l0 2l6 0l0 3l7 -3l1 -4l23 -3l-1 15l-7 0l0 12l6 0l-3 19l-4 0l-13 -14l8 9l-6 4z","M525 417l0 -12l13 0l0 -15l22 13l24 18l2 7l0 33l-2 2l-1 -1l-45 -1l0 -37l-13 1l0 -8z","M228 214l18 -1l1 -53l-2 -4l47 69l9 15l-2 1l2 3l-1 5l-4 3l0 4l-11 0l0 -31l-26 1l-11 9l-20 -1l0 -20z","M474 383l9 0l1 -7l17 -1l1 -6l-55 -38l-34 -20l-3 7l7 6l6 9l9 3l-1 29l-4 -1l-7 -4l-4 1l-1 3l-8 -2l-1 4l-17 1l15 21l27 0l4 -2l2 2l12 1l0 36l15 -1l1 -41l9 0z","M373 204l38 0l0 -15l16 12l2 3l1 -24l-2 1l1 -14l-37 0l-61 1l11 37l31 -1z","M356 316l28 -2l0 -5l8 -1l0 -4l-18 0l1 -18l-6 -1l-25 4l0 12l-1 18l-7 0l0 12l12 0l1 -3l4 -1l0 -8l3 -3z","M245 302l2 0l0 -13l9 -11l20 -2l11 -5l26 -1l0 5l-10 0l0 33l-4 0l-14 0l-1 16l-21 9l-1 -24l-15 6l0 -9l2 0l-1 -3l-3 -1z","M309 94l8 28l-4 -4l-77 20l-4 -1l-16 -23l-24 0l1 -7l5 0l0 -12l5 0l-48 -72l0 16l-5 1l-14 0l0 -18l12 -2l8 1l2 1l62 92l26 0l42 -1l-21 -92l20 -1l22 74z","M356 257l1 4l19 0l0 -4l-6 0l2 -3l13 -8l8 -2l0 -8l-18 0l0 -12l0 -20l-33 1l3 10l-1 45l9 1l0 -4l3 0z","M393 245l0 -9l-18 0l0 -32l36 0l0 -2l0 -13l16 12l2 3l0 18l3 0l1 38l-37 1l0 -13l-3 -1l0 -2z","M308 227l12 -3l-10 -19l32 0l-10 -35l-1 -2l-30 0l-10 -44l-55 14l-3 -1l59 88l9 0l7 2z","M324 241l4 -1l0 4l4 0l0 -12l-8 0l-4 -8l-11 4l-10 -3l-8 0l21 31l1 0l0 -8l11 0l0 -7z","M339 350l3 -19l6 0l1 -3l4 -1l0 -8l3 -3l28 -2l0 -5l8 -1l0 -4l-18 0l1 -18l38 25l-3 7l7 6l6 9l9 3l-1 29l-4 -1l-7 -4l-4 1l-1 3l-8 -2l-1 4l-17 1l-10 -15l-40 1l0 2l-4 -5l4 0z","M311 205l31 0l3 8l0 14l-1 17l-8 0l0 -4l-4 0l0 -8l-8 0l-12 -20l-1 -7z","M350 376l4 -4l-15 -17l0 -2l40 -1l49 73l-27 0l9 12l13 28l-9 -19l-9 1l-2 1l0 6l-48 0l-6 -1l-14 -9l2 -18l63 -1l-34 -39l-4 3l-9 2l0 -11l-3 -4z","M285 341l-1 -5l37 -1l1 30l-1 8l1 2l10 1l-2 3l1 11l8 0l-1 14l-1 22l-92 0l2 -48l22 1l4 -2l4 -7l3 2l5 -2l5 -14l-1 -5l-4 -3l0 -7z","M264 334l-3 3l-5 0l-3 4l-6 1l0 -27l10 -4l5 -2l1 23l2 0l-1 2z","M404 388l27 0l4 -2l3 2l10 1l1 36l10 0l-8 4l-21 -1l-26 -40z","M423 260l10 0l0 64l-56 -38l-6 -6l0 -9l9 0l0 -6l10 0l0 -4l33 -1z","M275 359l0 -4l-10 0l0 -6l4 -1l-5 -14l1 -2l21 -8l5 0l0 7l-7 2l1 15l5 5l0 6l-5 11l-5 2l-3 -2l-3 -7l1 -4z","M296 255l0 -3l5 -6l-2 -5l2 -1l12 16l0 4l31 0l0 25l4 0l0 4l-4 0l0 15l-8 0l-15 3l0 4l-8 3l0 -3l-6 0l0 -2l-4 0l0 -33l10 -1l0 -5l-23 1l4 -4l1 -9l3 -2l-2 -1z"];
+  const D = ["M210 349l0 -13l-5 0l0 3l-3 0l0 7l-8 1l0 2l-3 0l0 -8l-157 70l-12 13l-5 -6l-15 7l-13 2l-1 -3l8 -6l-1 -12l18 -3l2 -3l11 -3l2 -3l-2 -5l2 -5l6 0l4 -5l15 -1l10 -4l3 1l9 -7l25 -2l12 -13l0 -3l7 -3l0 -2l8 -1l5 -3l2 -3l0 -3l6 -6l0 -7l-2 -5l-4 -1l2 -9l3 -2l6 0l7 -6l7 -2l3 1l4 -3l7 -1l2 3l3 -1l-1 2l5 0l1 -2l8 3l-1 2l2 5l3 0l0 2l3 0l4 5l3 -4l6 1l5 -4l5 3l4 -6l6 0l10 -7l6 -7l0 13l-2 0l3 1l1 3l-2 0l0 9l-13 6l-1 4l-4 2l0 19l-19 7l0 -4z","M266 364l-2 -3l-8 0l-4 3l-2 -2l-3 2l0 -22l6 -1l3 -4l5 0l3 -3l2 5l0 4l2 1l1 4l-4 1l0 6l10 0l1 4l-2 5l0 -2l-8 4l0 -2z","M274 362l3 8l-6 8l-24 0l0 -14l3 -2l2 2l4 -3l8 0l2 2l0 4l8 -5z","M393 247l3 1l0 13l-6 0l0 4l-10 0l0 6l-9 0l0 9l6 5l-1 2l-7 -2l-21 4l0 -4l-4 0l0 -12l0 -13l9 1l0 -4l4 0l0 4l19 0l0 -4l-6 0l2 -3l14 -9l7 -1l0 3z","M313 256l0 -8l11 0l0 -8l4 0l0 4l4 0l0 -4l4 1l0 3l8 0l0 16l-31 0l0 -4z","M334 391l-3 -1l-1 -11l2 -3l-10 -1l-1 -2l1 -8l0 -16l5 0l3 -4l-8 -9l32 36l-4 4l3 4l0 11l6 -1l7 -4l34 39l-63 1l2 -36l-5 1z","M324 349l-2 0l-1 -14l-37 1l0 -3l5 0l2 -2l0 -8l-7 2l1 -17l22 1l0 2l6 0l0 3l7 -3l1 -4l23 -3l-1 15l-7 0l0 12l6 0l-3 19l-4 0l-13 -14l8 9l-6 4z","M525 417l0 -12l13 0l0 -15l22 13l24 18l2 7l0 33l-2 2l-1 -1l-45 -1l0 -37l-13 1l0 -8z","M228 214l18 -1l1 -53l-2 -4l47 69l9 15l-2 1l2 3l-1 5l-4 3l0 4l-11 0l0 -31l-26 1l-11 9l-20 -1l0 -20z","M474 383l9 0l1 -7l17 -1l1 -6l-55 -38l-34 -20l-3 7l7 6l6 9l9 3l-1 29l-4 -1l-7 -4l-4 1l-1 3l-8 -2l-1 4l-17 1l15 21l27 0l4 -2l2 2l12 1l0 36l15 -1l1 -41l9 0z","M373 204l38 0l0 -15l16 12l2 3l1 -24l-2 1l1 -14l-37 0l-61 1l11 37l31 -1z","M356 316l28 -2l0 -5l8 -1l0 -4l-18 0l1 -18l-6 -1l-25 4l0 12l-1 18l-7 0l0 12l12 0l1 -3l4 -1l0 -8l3 -3z","M245 302l2 0l0 -13l9 -11l20 -2l11 -5l26 -1l0 5l-10 0l0 33l-4 0l-14 0l-1 16l-21 9l-1 -24l-15 6l0 -9l2 0l-1 -3l-3 -1z","M291 124l-55 14l-4 -1l-40 -23l-10 -51l-46 -23l0 -18l12 -2l10 1l7 11l46 67l30 15l35 -57l-9 -36l20 -1l30 102l-25 4l-1 -2z","M356 257l1 4l19 0l0 -4l-6 0l2 -3l13 -8l8 -2l0 -8l-18 0l0 -12l0 -20l-33 1l3 10l-1 45l9 1l0 -4l3 0z","M393 245l0 -9l-18 0l0 -32l36 0l0 -2l0 -13l16 12l2 3l0 18l3 0l1 38l-37 1l0 -13l-3 -1l0 -2z","M308 227l12 -3l-10 -19l32 0l-10 -35l-1 -2l-30 0l-10 -44l-55 14l-3 -1l59 88l9 0l7 2z","M324 241l4 -1l0 4l4 0l0 -12l-8 0l-4 -8l-11 4l-10 -3l-8 0l21 31l1 0l0 -8l11 0l0 -7z","M339 350l3 -19l6 0l1 -3l4 -1l0 -8l3 -3l28 -2l0 -5l8 -1l0 -4l-18 0l1 -18l38 25l-3 7l7 6l6 9l9 3l-1 29l-4 -1l-7 -4l-4 1l-1 3l-8 -2l-1 4l-17 1l-10 -15l-40 1l0 2l-4 -5l4 0z","M311 205l31 0l3 8l0 14l-1 17l-8 0l0 -4l-4 0l0 -8l-8 0l-12 -20l-1 -7z","M350 376l4 -4l-15 -17l0 -2l40 -1l49 73l-27 0l9 12l13 28l-9 -19l-9 1l-2 1l0 6l-48 0l-6 -1l-14 -9l2 -18l63 -1l-34 -39l-4 3l-9 2l0 -11l-3 -4z","M285 341l-1 -5l37 -1l1 30l-1 8l1 2l10 1l-2 3l1 11l8 0l-1 14l-1 22l-92 0l2 -48l22 1l4 -2l4 -7l3 2l5 -2l5 -14l-1 -5l-4 -3l0 -7z","M264 334l-3 3l-5 0l-3 4l-6 1l0 -27l10 -4l5 -2l1 23l2 0l-1 2z","M404 388l27 0l4 -2l3 2l10 1l1 36l10 0l-8 4l-21 -1l-26 -40z","M423 260l10 0l0 64l-56 -38l-6 -6l0 -9l9 0l0 -6l10 0l0 -4l33 -1z","M275 359l0 -4l-10 0l0 -6l4 -1l-5 -14l1 -2l21 -8l5 0l0 7l-7 2l1 15l5 5l0 6l-5 11l-5 2l-3 -2l-3 -7l1 -4z","M296 255l0 -3l5 -6l-2 -5l2 -1l12 16l0 4l31 0l0 25l4 0l0 4l-4 0l0 15l-8 0l-15 3l0 4l-8 3l0 -3l-6 0l0 -2l-4 0l0 -33l10 -1l0 -5l-23 1l4 -4l1 -9l3 -2l-2 -1z"];
   const B = { x: 130, y: 10, w: 460, h: 470 };
   const pcts = (ps) => ps.length === 1 ? "Precinct " + ps[0] : "Precincts " + ps.slice(0, -1).join(", ") + " and " + ps[ps.length - 1];
   const ord = (n) => n + ((n % 100 >= 11 && n % 100 <= 13) ? "th" : ({ 1: "st", 2: "nd", 3: "rd" }[n % 10] || "th"));
